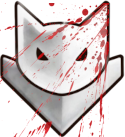
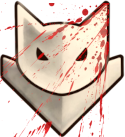
perfect design integration

Changed region(s): [[0.144, 0.0292, 0.96, 0.9343], [0.072, 0.438, 0.096, 0.4672], [0.048, 0.4088, 0.072, 0.438]]

diff --git a/GW2FOX/MiniOverlay.xaml b/GW2FOX/MiniOverlay.xaml
@@ -16,7 +16,7 @@
         ResizeMode="NoResize"
         ShowInTaskbar="False">
     <StackPanel Orientation="Horizontal" Margin="0">
-        <Image Source="Resources/BloodyCom.bmp" Width="28" MouseLeftButtonUp="Clock_Click" Cursor="Hand"
+        <Image Source="/Resources/BloodyCom.bmp" Width="28" MouseLeftButtonUp="Clock_Click" Cursor="Hand"
            MouseEnter="Button_MouseEnter" MouseLeave="Button_MouseLeave"
            MouseDown="Button_MouseDown" MouseUp="Button_MouseUp"/>
     </StackPanel>

diff --git a/GW2FOX/MiniOverlay.xaml.cs b/GW2FOX/MiniOverlay.xaml.cs
@@ -40,12 +40,12 @@ namespace GW2FOX
         {
             var screen = Forms.Screen.PrimaryScreen.WorkingArea;
             Left = 323;
-            Top = 0;
+            Top = 2;
 
             foreach (var img in FindVisualChildren<WpfImage>(this))
             {
                 AnimateScale(img, 0.8, 150);
-                img.Opacity = 0.7;
+                img.Opacity = 0.6;
             }
         }
         private static IEnumerable<T> FindVisualChildren<T>(DependencyObject depObj) where T : DependencyObject
@@ -167,7 +167,7 @@ namespace GW2FOX
             if (sender is WpfImage img)
             {
                 AnimateScale(img, 0.8, 150);
-            img.Opacity = 0.7;
+            img.Opacity = 0.6;
             }
         }
 
@@ -176,7 +176,7 @@ namespace GW2FOX
             if (sender is WpfImage img)
             {
                 AnimateScale(img, 0.9, 80);
-                img.Opacity = 0.5;
+                img.Opacity = 0.4;
             }
         }
 
